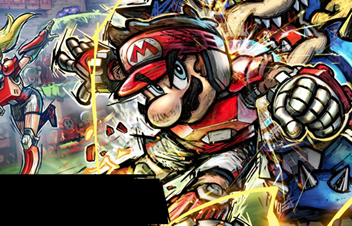
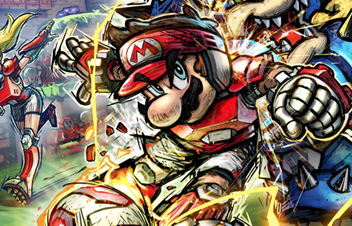
Rating cards: new artwork, centred (#35)
Owner request. The owner's updated images (the black bar bottom left is
gone) as lossless WebP (647 KB -> 467 KB, identical pixels), with a new
cache tag. The bar was the reason to anchor the artwork left; it is
centred now, so the narrow profile cards show the middle of the image.

The visual comparison now runs against the released #34 (a686050).

Changed region(s): [[0.0, 0.7434, 0.5, 1.0]]

diff --git a/apps/web/src/styles/rating-cards.css b/apps/web/src/styles/rating-cards.css
@@ -4,19 +4,19 @@
 .profile-rating-card.is-msbl-rating,
 .player-popup-rating-card.is-msbl-rating {
   --rating-game-color: var(--game-color-msbl);
-  --rating-game-art: url("../assets/players/profile-comp-msbl.webp");
+  --rating-game-art: url("../assets/players/profile-comp-msbl.webp?v=20260929-art-v2");
 }
 
 .profile-rating-card.is-msc-rating,
 .player-popup-rating-card.is-msc-rating {
   --rating-game-color: var(--game-color-msc);
-  --rating-game-art: url("../assets/players/profile-comp-msc.webp");
+  --rating-game-art: url("../assets/players/profile-comp-msc.webp?v=20260929-art-v2");
 }
 
 .profile-rating-card.is-sms-rating,
 .player-popup-rating-card.is-sms-rating {
   --rating-game-color: var(--game-color-sms);
-  --rating-game-art: url("../assets/players/profile-comp-sms.webp");
+  --rating-game-art: url("../assets/players/profile-comp-sms.webp?v=20260929-art-v2");
 }
 
 /* Every rating card, on the profile page and in the popup, is framed in its game's colour. */
@@ -138,7 +138,7 @@
   background:
     linear-gradient(to top, rgba(0, 0, 0, 0.8), transparent 30%),
     linear-gradient(rgba(0, 0, 0, 0.7), rgba(0, 0, 0, 0.7)),
-    var(--rating-game-art) left center / cover no-repeat;
+    var(--rating-game-art) center / cover no-repeat;
 }
 
 .player-popup-rating-card.is-compact-layout {
